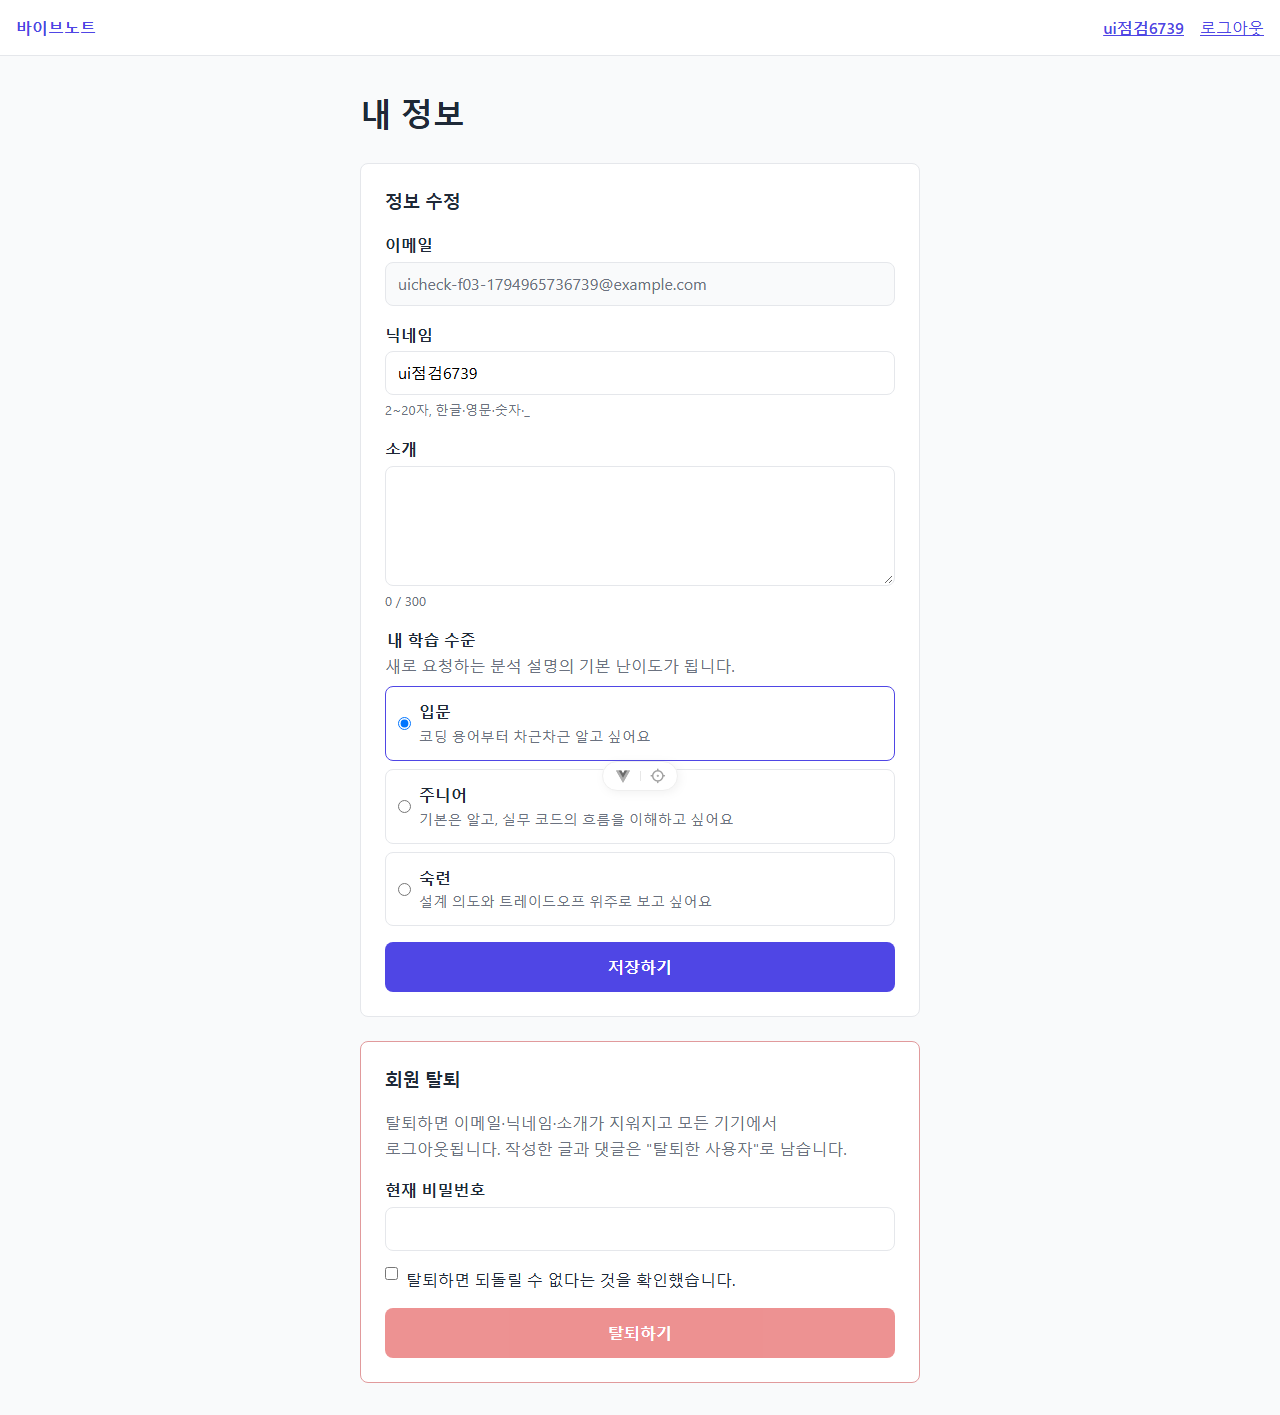
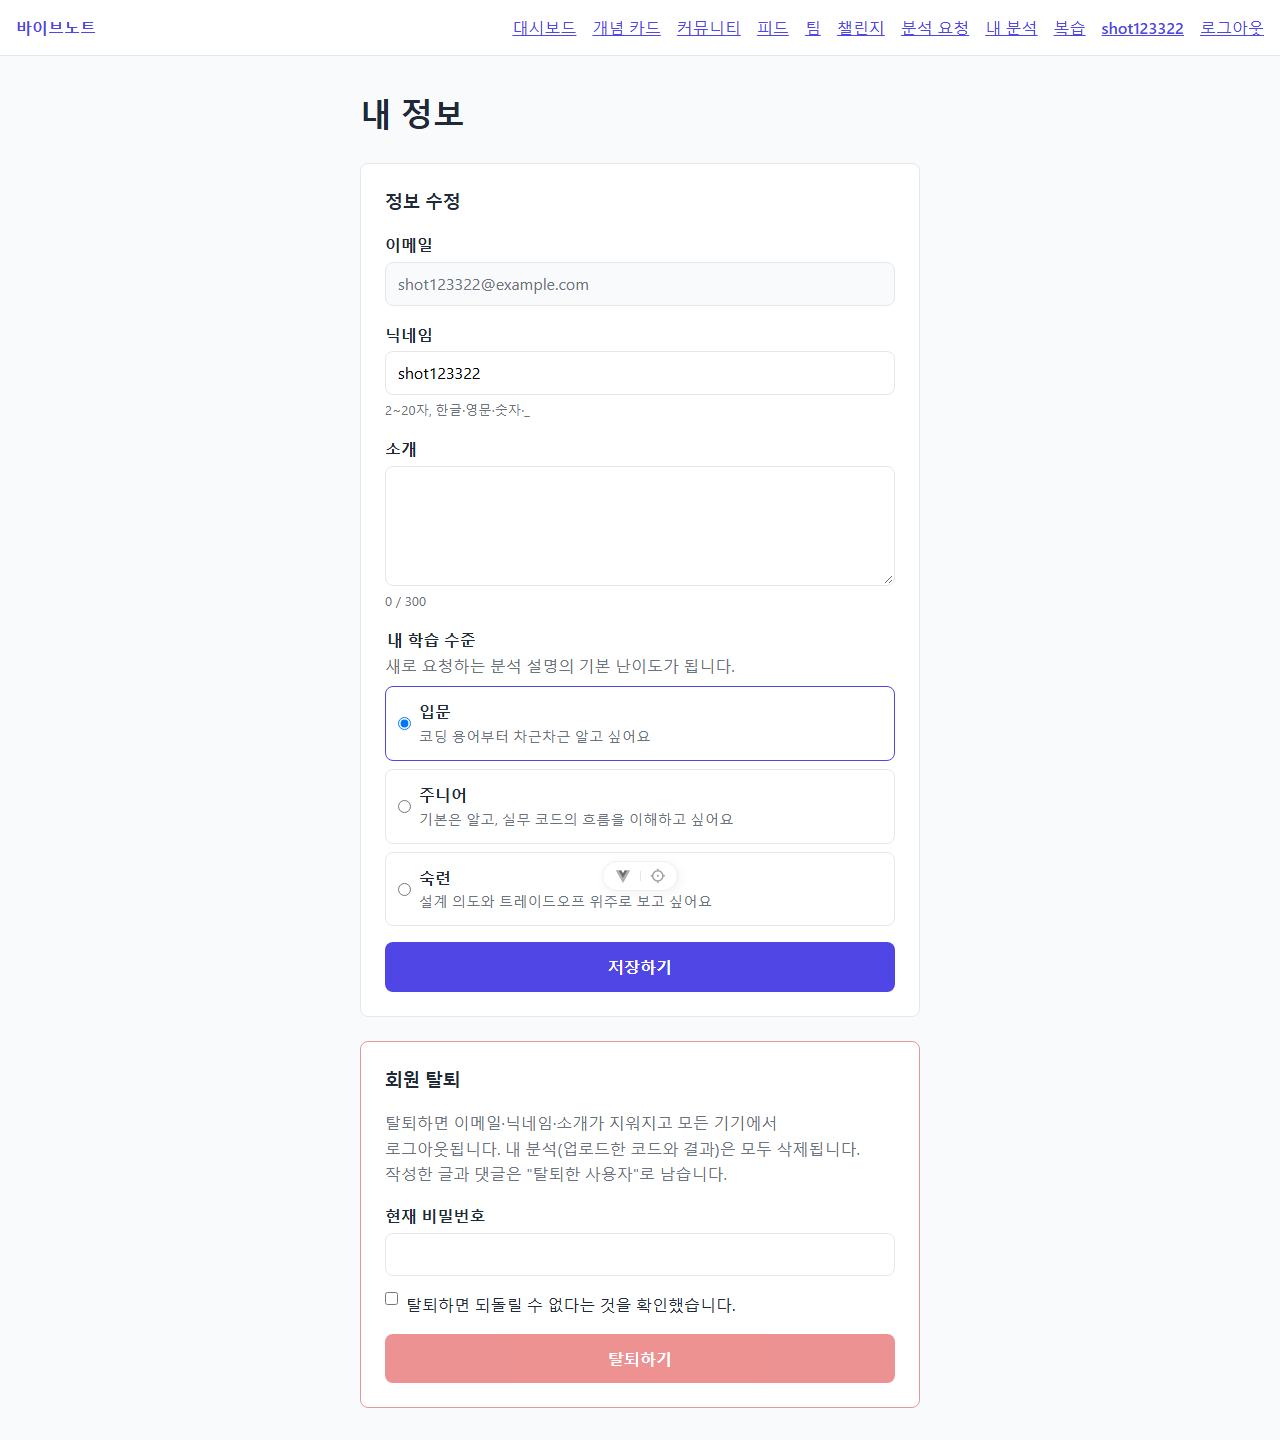
docs(F-03): SC-19 탈퇴 안내 스크린샷·설명 갱신

diff --git a/docs/산출물/06-화면설계서.md b/docs/산출물/06-화면설계서.md
@@ -574,7 +574,7 @@ flowchart LR
 
 ### SC-19 내 정보 수정·탈퇴 (`/me/settings`, F-03)
 
-- 구성: 정보 수정 카드(이메일 읽기 전용, 닉네임, 소개 300자 카운터, 학습 수준 라디오 카드 3개, 저장하기) + 회원 탈퇴 카드(안내 문구, 현재 비밀번호, "되돌릴 수 없음" 확인 체크, 빨간 탈퇴하기 버튼)
+- 구성: 정보 수정 카드(이메일 읽기 전용, 닉네임, 소개 300자 카운터, 학습 수준 라디오 카드 3개, 저장하기) + 회원 탈퇴 카드(안내 문구: 마스킹·로그아웃·분석 삭제·작성물 유지, 현재 비밀번호, "되돌릴 수 없음" 확인 체크, 빨간 탈퇴하기 버튼)
 - 상태별 UI: 클라이언트 검증·서버 `details`(COMMON_400, USER_409)는 필드 아래 / 저장 성공 시 "저장했습니다." / 비밀번호 불일치(USER_001)는 비밀번호 아래 / 탈퇴 버튼은 비밀번호와 확인 체크가 있어야 활성화
 - 동작: 저장하면 헤더 닉네임·수준이 바로 바뀐다. 탈퇴 성공 시 이 기기의 세션을 비우고 홈으로 이동 (서버가 모든 기기의 Refresh 토큰을 폐기)
 - 모바일: 한 열, 최대 폭 560px
